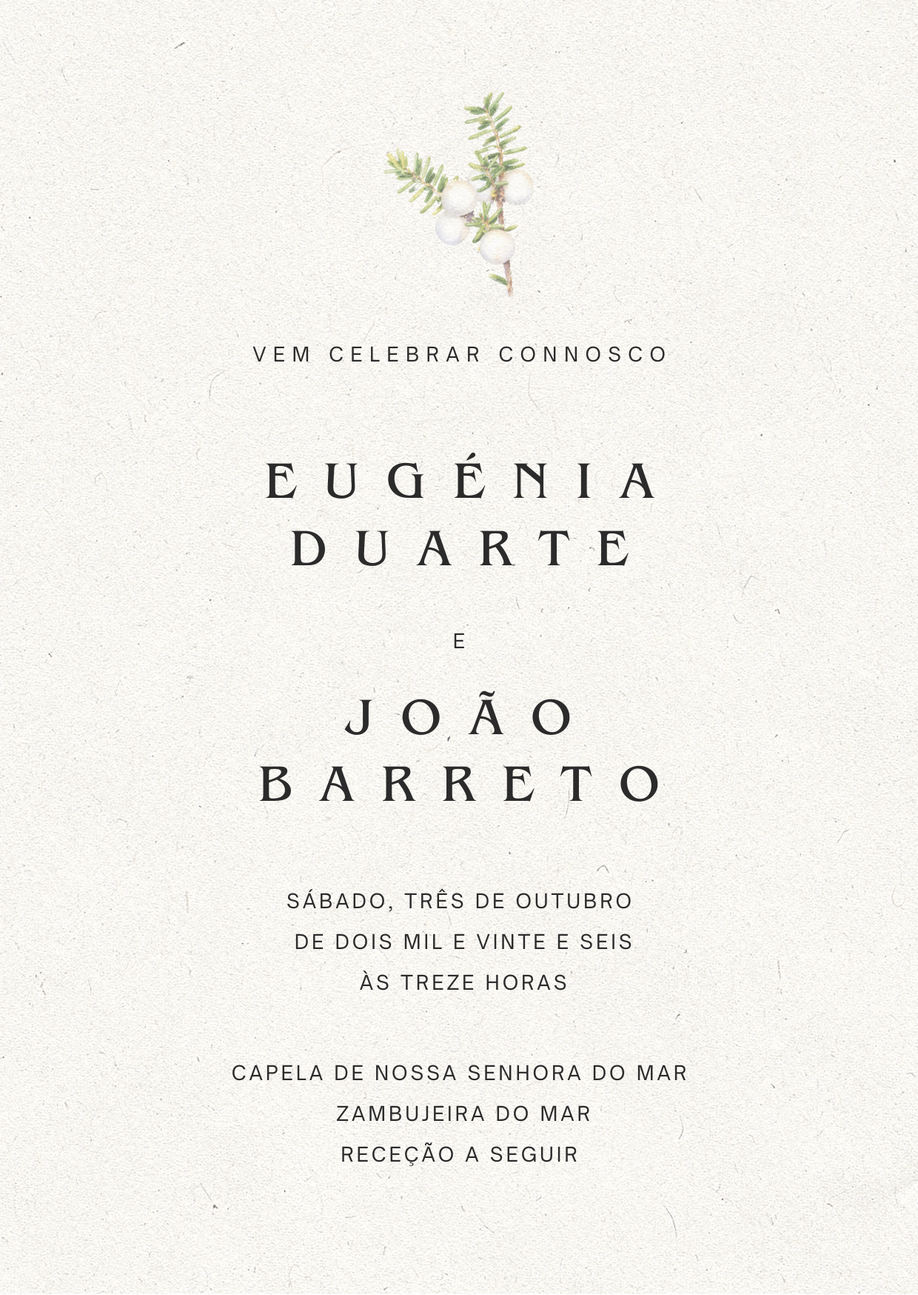
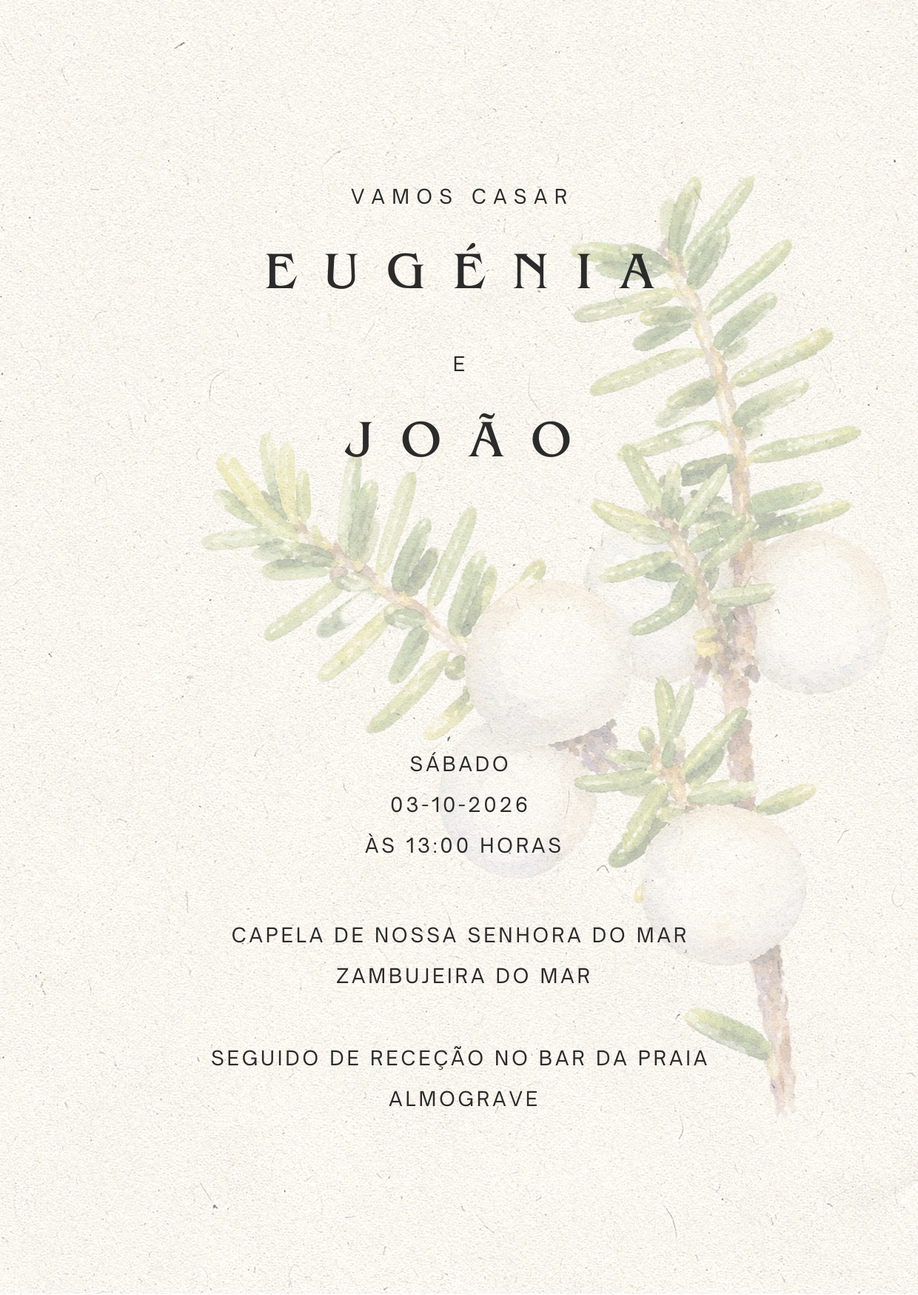
Spreadsheet Working

diff --git a/css/styles.css b/css/styles.css
@@ -155,7 +155,7 @@ section {
   letter-spacing: 0.28em;
   text-transform: uppercase;
   color: var(--ink-soft);
-  opacity: calc((1 - var(--progress) * 2) * 0.52);
+  opacity: calc((1 - var(--progress) * 2) * 0.38);
   pointer-events: none;
 }
 
@@ -170,19 +170,22 @@ section {
   --w: min(86vw, 420px);
   /* Envelope aspect 4:3 (landscape). */
   --h: calc(var(--w) * 0.75);
+  --fold-shoulder: 0%;
   --fold-tip: 68%;
+  --flap-h: calc(var(--h) * 0.68);
   --envelope-paper: #efe6d8;
   --envelope-flap: #e4d8c5;
-  --fold-line: rgba(113, 91, 62, 0.14);
-  --fold-highlight: rgba(255, 255, 255, 0.42);
+  --envelope-flap-inside: #efe6d8;
+  --crease-line: rgba(113, 91, 62, 0.07);
+  --inner-highlight: rgba(255, 255, 255, 0.32);
 
   /* Letter geometry — derived once so the slot clip can reference the
      same numbers that drive the .letter's width and aspect. */
   --letter-w: calc(var(--w) * 0.86);
   --letter-h: calc(var(--letter-w) * 10 / 7);
-  /* Park the letter deep in the pocket: its top starts near the V tip, so
-     only a small strip peeks through after the flap opens. */
-  --letter-start-y: calc(var(--h) * 0.7);
+  /* Anchor the letter to the envelope mouth, not the bottom pocket, so it
+     emerges from the opening instead of rising from the base. */
+  --letter-start-y: calc(var(--h) * 0.12);
   /* Travel far enough that the card's lower edge clears the pocket before
      the top-layer handoff starts. The 40px overlap keeps the final card
      visually resting on the envelope rather than floating above it. */
@@ -210,8 +213,10 @@ section {
   position: absolute;
   inset: 0;
   background: var(--envelope-paper);
-  border-radius: 4px;
-  box-shadow: 0 8px 20px rgba(0, 0, 0, 0.06);
+  border-radius: 12px;
+  box-shadow:
+    inset 0 0 0 1px var(--inner-highlight),
+    0 8px 20px rgba(0, 0, 0, 0.06);
   z-index: 1;
 }
 
@@ -236,7 +241,7 @@ section {
   clip-path: inset(
     calc(var(--letter-progress) * -1 * var(--letter-reveal)) 0 0 0
   );
-  z-index: 2;
+  z-index: 3;
 }
 
 /* 2b — shared letter geometry. Top-positioned inside the pocket so the
@@ -255,7 +260,7 @@ section {
 }
 
 .letter--inside {
-  opacity: calc(1 - var(--escape-progress));
+  opacity: calc(var(--flap-progress) * (1 - var(--escape-progress)));
 }
 
 /* Phase 2: once the invitation has escaped the pocket, this unclipped duplicate
@@ -278,37 +283,36 @@ section {
     0 10px 24px rgba(40, 30, 10, 0.18);
 }
 
-/* 3 — envelope-front (z=3) — front pocket with a deeper V-fold.
-   The V tip matches --fold-tip, so the closed flap covers the cut exactly. */
+/* 3 — envelope-front (z=3) — open front pocket.
+   The real hinged flap is separate; this layer only masks the lower card. */
 .envelope-front {
   position: absolute;
   inset: 0;
   background:
-    linear-gradient(90deg, transparent calc(50% - 0.5px), rgba(113, 91, 62, 0.08) 50%, transparent calc(50% + 0.5px)),
-    linear-gradient(154deg, transparent 49.82%, var(--fold-line) 49.96%, var(--fold-line) 50.04%, transparent 50.18%),
-    linear-gradient(26deg, transparent 49.82%, var(--fold-highlight) 49.96%, var(--fold-highlight) 50.04%, transparent 50.18%),
+    linear-gradient(154deg, transparent 49.86%, var(--crease-line) 49.98%, var(--crease-line) 50.02%, transparent 50.14%),
+    linear-gradient(26deg, transparent 49.86%, var(--crease-line) 49.98%, var(--crease-line) 50.02%, transparent 50.14%),
     var(--envelope-paper);
-  clip-path: polygon(0 0, 50% var(--fold-tip), 100% 0, 100% 100%, 0 100%);
-  z-index: 3;
-  border-radius: 4px;
-  box-shadow: inset 0 -1px 0 rgba(113, 91, 62, 0.08);
+  clip-path: polygon(0 var(--fold-shoulder), 50% var(--fold-tip), 100% var(--fold-shoulder), 100% 100%, 0 100%);
+  z-index: 4;
+  border-radius: 12px;
+  box-shadow:
+    inset 0 0 0 1px var(--inner-highlight),
+    inset 0 -1px 0 rgba(113, 91, 62, 0.05);
 }
 
-/* 4 — envelope-flap (z=4) — triangular flap, rotates 0deg → 160deg
-   transform-origin: top center, so it hinges on the envelope's top fold line.
-   backface-visibility: hidden hides the flap once it has rotated past 90°,
-   which clears the area in front of the letter without needing a z-index swap. */
+/* 4 — envelope-flap (z=4) — one solid triangle, hinged at the top edge.
+   No opacity, gradients, filters, masks, or crossfaded faces are used here:
+   the only animated property is transform, so the flap cannot ghost/fade. */
 .envelope-flap {
   position: absolute;
   top: 0;
   left: 0;
   width: 100%;
-  height: var(--fold-tip);
+  height: var(--flap-h);
   background: none;
   transform-origin: top center;
-  transform: rotateX(calc(var(--flap-progress) * 160deg));
-  backface-visibility: hidden;
-  z-index: 4;
+  transform: scaleY(calc(1 - (var(--flap-progress) * 2)));
+  z-index: 2;
   will-change: transform;
   pointer-events: none;
 }
@@ -316,13 +320,21 @@ section {
 .envelope-flap::before {
   content: "";
   position: absolute;
+  top: 0;
+  left: 50%;
+  width: 0;
+  height: 0;
+  border-left: calc(var(--w) / 2) solid transparent;
+  border-right: calc(var(--w) / 2) solid transparent;
+  border-top-width: var(--flap-h);
+  border-top-style: solid;
+  border-top-color: var(--envelope-flap);
+  transform: translateX(-50%);
   pointer-events: none;
-  inset: 0;
-  background:
-    linear-gradient(180deg, rgba(255, 255, 255, 0.18), transparent 24%),
-    var(--envelope-flap);
-  clip-path: polygon(-0.4% 0, 100.4% 0, 50% 100.8%);
-  filter: drop-shadow(0 4px 7px rgba(0, 0, 0, 0.05));
+}
+
+.envelope.is-flap-underside .envelope-flap::before {
+  border-top-color: var(--envelope-flap-inside);
 }
 
 /* --progress is driven by JS in main.js (setupAnimationFallback) on every frame.

diff --git a/index.html b/index.html
@@ -17,7 +17,7 @@
     <link rel="stylesheet" href="/css/styles.css" />
 
     <!-- Preload the invitation so the slide-out doesn't flash -->
-    <link rel="preload" as="image" href="/assets/invitation.png" fetchpriority="high" />
+    <link rel="preload" as="image" href="/assets/invitation.png?v=20260504" fetchpriority="high" />
   </head>
 
   <body>
@@ -40,7 +40,7 @@
           <div class="envelope-slot">
             <div class="letter letter--inside">
               <img
-                src="/assets/invitation.png"
+                src="/assets/invitation.png?v=20260504"
                 alt="Convite de casamento de Eugénia e João"
                 decoding="sync"
                 fetchpriority="high"
@@ -52,7 +52,7 @@
                same image, but is not inside the clipped pocket. -->
           <div class="letter letter--escaped">
             <img
-              src="/assets/invitation.png"
+              src="/assets/invitation.png?v=20260504"
               alt=""
               decoding="sync"
               fetchpriority="high"

diff --git a/js/main.js b/js/main.js
@@ -489,6 +489,7 @@ function setupAnimationFallback() {
 
   let raf = 0;
   let lastSettled = false;
+  let lastFlapUnderside = false;
   const update = () => {
     raf = 0;
     const rect = hero.getBoundingClientRect();
@@ -496,6 +497,12 @@ function setupAnimationFallback() {
     if (total <= 0) return;
     const progressed = Math.min(Math.max(-rect.top / total, 0), 1);
     root.style.setProperty("--progress", progressed.toFixed(4));
+
+    const flapUnderside = progressed >= 0.125;
+    if (flapUnderside !== lastFlapUnderside) {
+      envelope?.classList.toggle("is-flap-underside", flapUnderside);
+      lastFlapUnderside = flapUnderside;
+    }
 
     /* The card only counts as settled after the geometric slide-out is
        complete, not merely after the first movement phase starts. */

diff --git a/js/config.js b/js/config.js
@@ -97,5 +97,5 @@ export const config = {
   },
 
   // Google Apps Script web-app URL (deployed from a Google Sheet — see README).
-  rsvpEndpoint: "PLACEHOLDER_GOOGLE_APPS_SCRIPT_URL",
+  rsvpEndpoint: "https://script.google.com/macros/s/AKfycbz8hFAM0GQBeCA8ZPcJ1Rb36AzD-w4O2GorX3Z460KffL3RJ89ItGBALkon3ZwT1VnO/exec",
 };

diff --git a/requirements.md b/requirements.md
@@ -4,7 +4,7 @@
 
 Building a one-page wedding invitation site for the user's mother (Eugénia Duarte) and her partner (João Barreto). The site replaces a paper invitation: guests open the link, watch an envelope open as they scroll, see the invitation image, then access all the practical wedding info (date, venue, RSVP, honeymoon gift, important information, and gallery). All copy is in European Portuguese. Mobile-first because most guests will open it on their phones, but it must look polished on desktop too.
 
-Several pieces of content (invitation image, chapel photo, photo gallery, bank-transfer value) are not yet known — the build uses clearly marked placeholders in a single config file so the user can fill them in later without touching layout code.
+Several pieces of content (chapel photo, photo gallery, bank-transfer value) are not yet known — the build uses clearly marked placeholders in a single config file so the user can fill them in later without touching layout code. The invitation image is user-provided and lives at `/assets/invitation.png`; HTML references include a query-string version so the envelope animation does not show a stale cached copy.
 
 ---
 
@@ -114,10 +114,14 @@ Countdown was removed from the original plan — host preference (didn't want a 
 
 Mechanics:
 - Layer order is `envelope-back` → `envelope-slot`/clipped `letter--inside` → `envelope-front` → `envelope-flap`, then an unclipped `letter--escaped` above all envelope layers.
-- Visual treatment should be clean, minimal, and editorial rather than photorealistic: matte cream/beige stationery colours (`#f7f3ee` page background, `#efe6d8` envelope, `#e4d8c5` flap), perfectly straight symmetrical edges, a sharp triangular flap, thin precise fold lines, and only soft depth (`0 8px 20px rgba(0,0,0,0.06)`). Avoid glossy effects, heavy gradients, soft blobs, and dirty grey tones. Keep the effect CSS-only so the invitation still loads as a static, no-build site.
+- Visual treatment should be clean, minimal, and editorial rather than photorealistic: matte cream/beige stationery colours (`#f7f3ee` page background, `#efe6d8` envelope, `#e4d8c5` flap), perfectly straight symmetrical edges, a sharp triangular flap, intentional `12px` outer corner radius, thin and consistent low-contrast fold creases, no bottom centre seam, a subtle hinge edge on the flap fold, and only soft depth (`0 8px 20px rgba(0,0,0,0.06)`). Avoid glossy effects, heavy gradients, soft blobs, and dirty grey tones. Keep the effect CSS-only so the invitation still loads as a static, no-build site.
 - The outer scene/envelope must not use `overflow: hidden`; only the inner `envelope-slot` may clip the letter while it is inside the pocket.
-- Scroll progress 0.0–0.25 → flap rotates open (`rotateX(0deg)` → `rotateX(160deg)`) from `transform-origin: top center`.
-- 0.25–0.88 → invitation card translates upward from deep inside the pocket; initially only a small top strip is visible through the V opening.
+- Scroll progress 0.0–0.25 → flap rotates backward like paper from the top hinge (`rotateX(0deg)` → `rotateX(-160deg)`) with `transform-origin: top center`; it must remain visually attached to the envelope fold line throughout the motion.
+- The flap layer sits behind the letter/front pocket throughout the animation so it reads as folded-back paper rather than a panel floating over the invitation; the card remains invisible until the flap begins opening.
+- The front pocket is an open pocket shape, not a second closed flap; it should mask only the lower portion of the card while leaving the envelope mouth visually open.
+- The flap and front-pocket opening must share the same V geometry: identical top-corner shoulders and centre tip alignment, so they read as parts of the same folded envelope. The flap point should not carry extra edge shadow or darker shading.
+- The flap must never fade, dissolve, blur, or use mask/gradient fades during opening. It should animate only by transform. Use one visible solid triangle at any point; the outside/front is slightly darker cream for depth, and the underside/inside switches to lighter cream after the hinge crosses halfway, without crossfading.
+- 0.25–0.88 → invitation card translates upward from the envelope opening; its start position is anchored near the top/mouth of the envelope rather than the bottom pocket.
 - The pocket mask opens upward with the letter during the slide-out, so the invitation visibly leaves the envelope before any duplicate/top-layer handoff happens.
 - The handoff from the pocket layer to the unclipped escaped layer starts as soon as the invitation reaches its furthest-up / fully-out position and should be almost instant (`progress ≈ 0.88–0.89`), before the final downward settle.
 - 0.88–1.0 → invitation settles noticeably downward above the open envelope while the whole scene lifts enough for the invite itself to finish vertically centred in the viewport.
@@ -254,7 +258,6 @@ Do not include "Posso levar crianças?" or "Posso levar acompanhante?" here beca
 - **Countdown:** removed — host preference.
 
 ### Still pending before launch
-- **Invitation image** (high-resolution, from Canva).
 - **Chapel photo** — save as `/assets/chapel.png`.
 - **Lat/lng** for both venues — optional polish; address fallback works in the meantime.
 - **Carousel photos** — save into `/assets/carosel photos/` and list in `config.gallery`.
